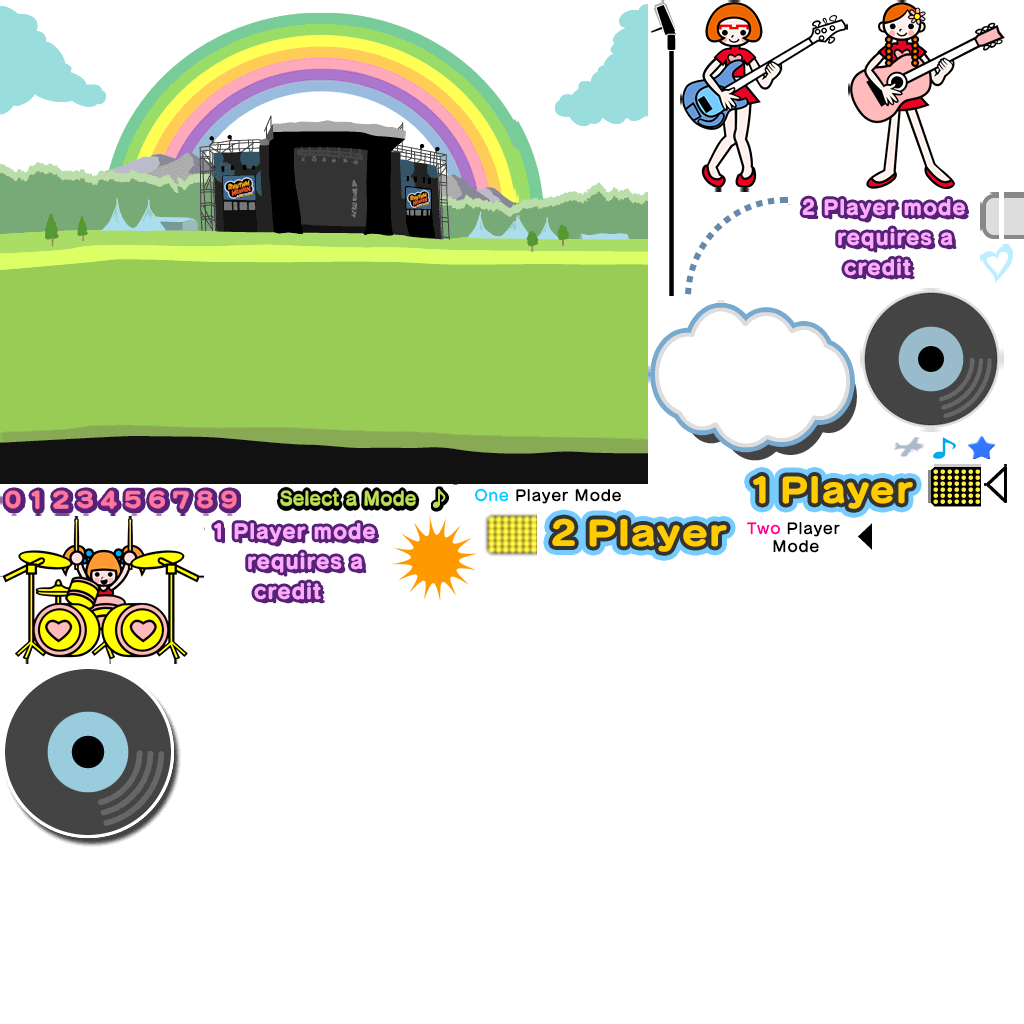
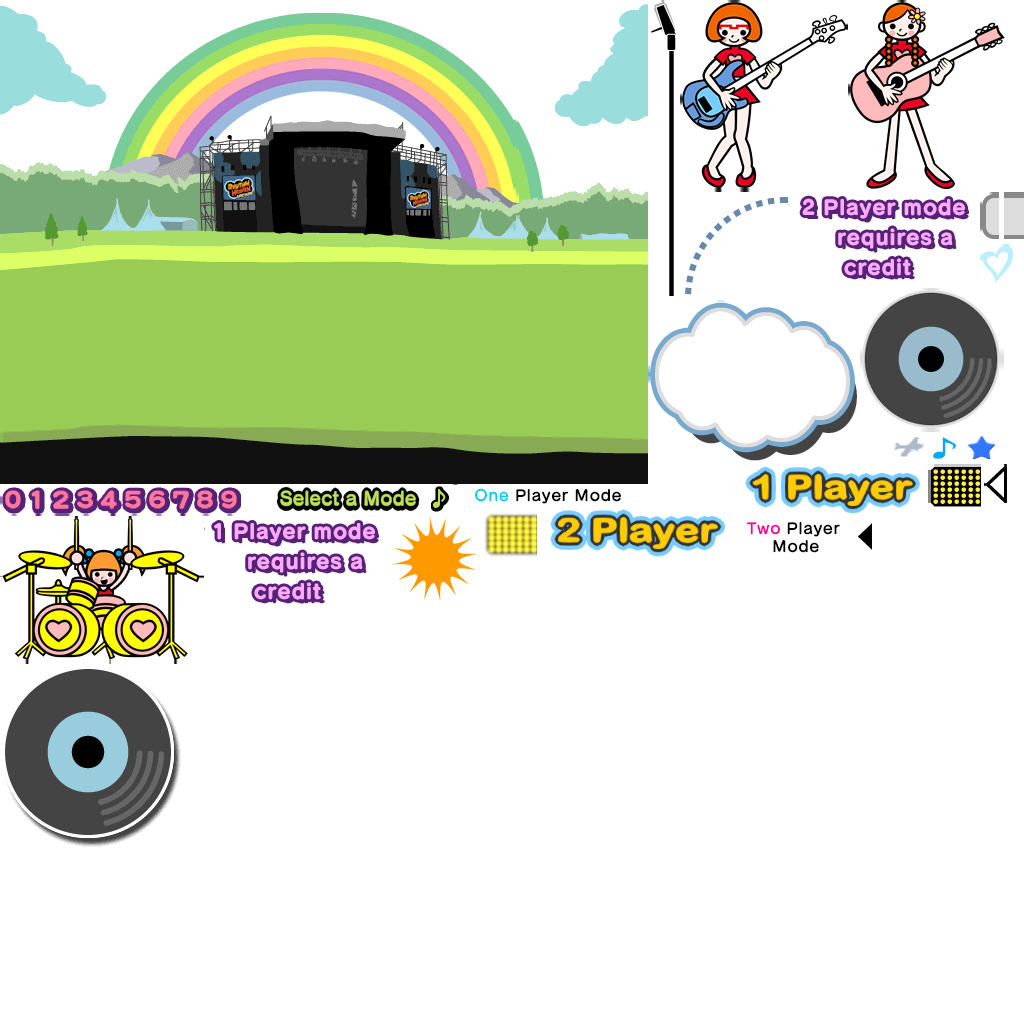
Fix 1 Player and 2 Player text

Changed region(s): [[0.5312, 0.5, 0.7188, 0.5625], [0.7188, 0.4375, 0.9062, 0.5312]]

diff --git a/README.md b/README.md
@@ -28,6 +28,8 @@ Here's a list of all fonts used and where they are used.
     - Used for most plain text, like game descriptions, tutorial popups, ect
 - FOT-Slump Std DB
     - Used for header labels like "Select a Mode"
+- Tim Sale Lower-Bold
+    - Used for the "ENCORE", "EXPERT", "MASTER", and "EXTRA" titles on the "Select a Stage" menu
 - VDL-GigaJr B
     - Used for titles on the leaderboard menu
 - WarioWareInc V2 Medium
